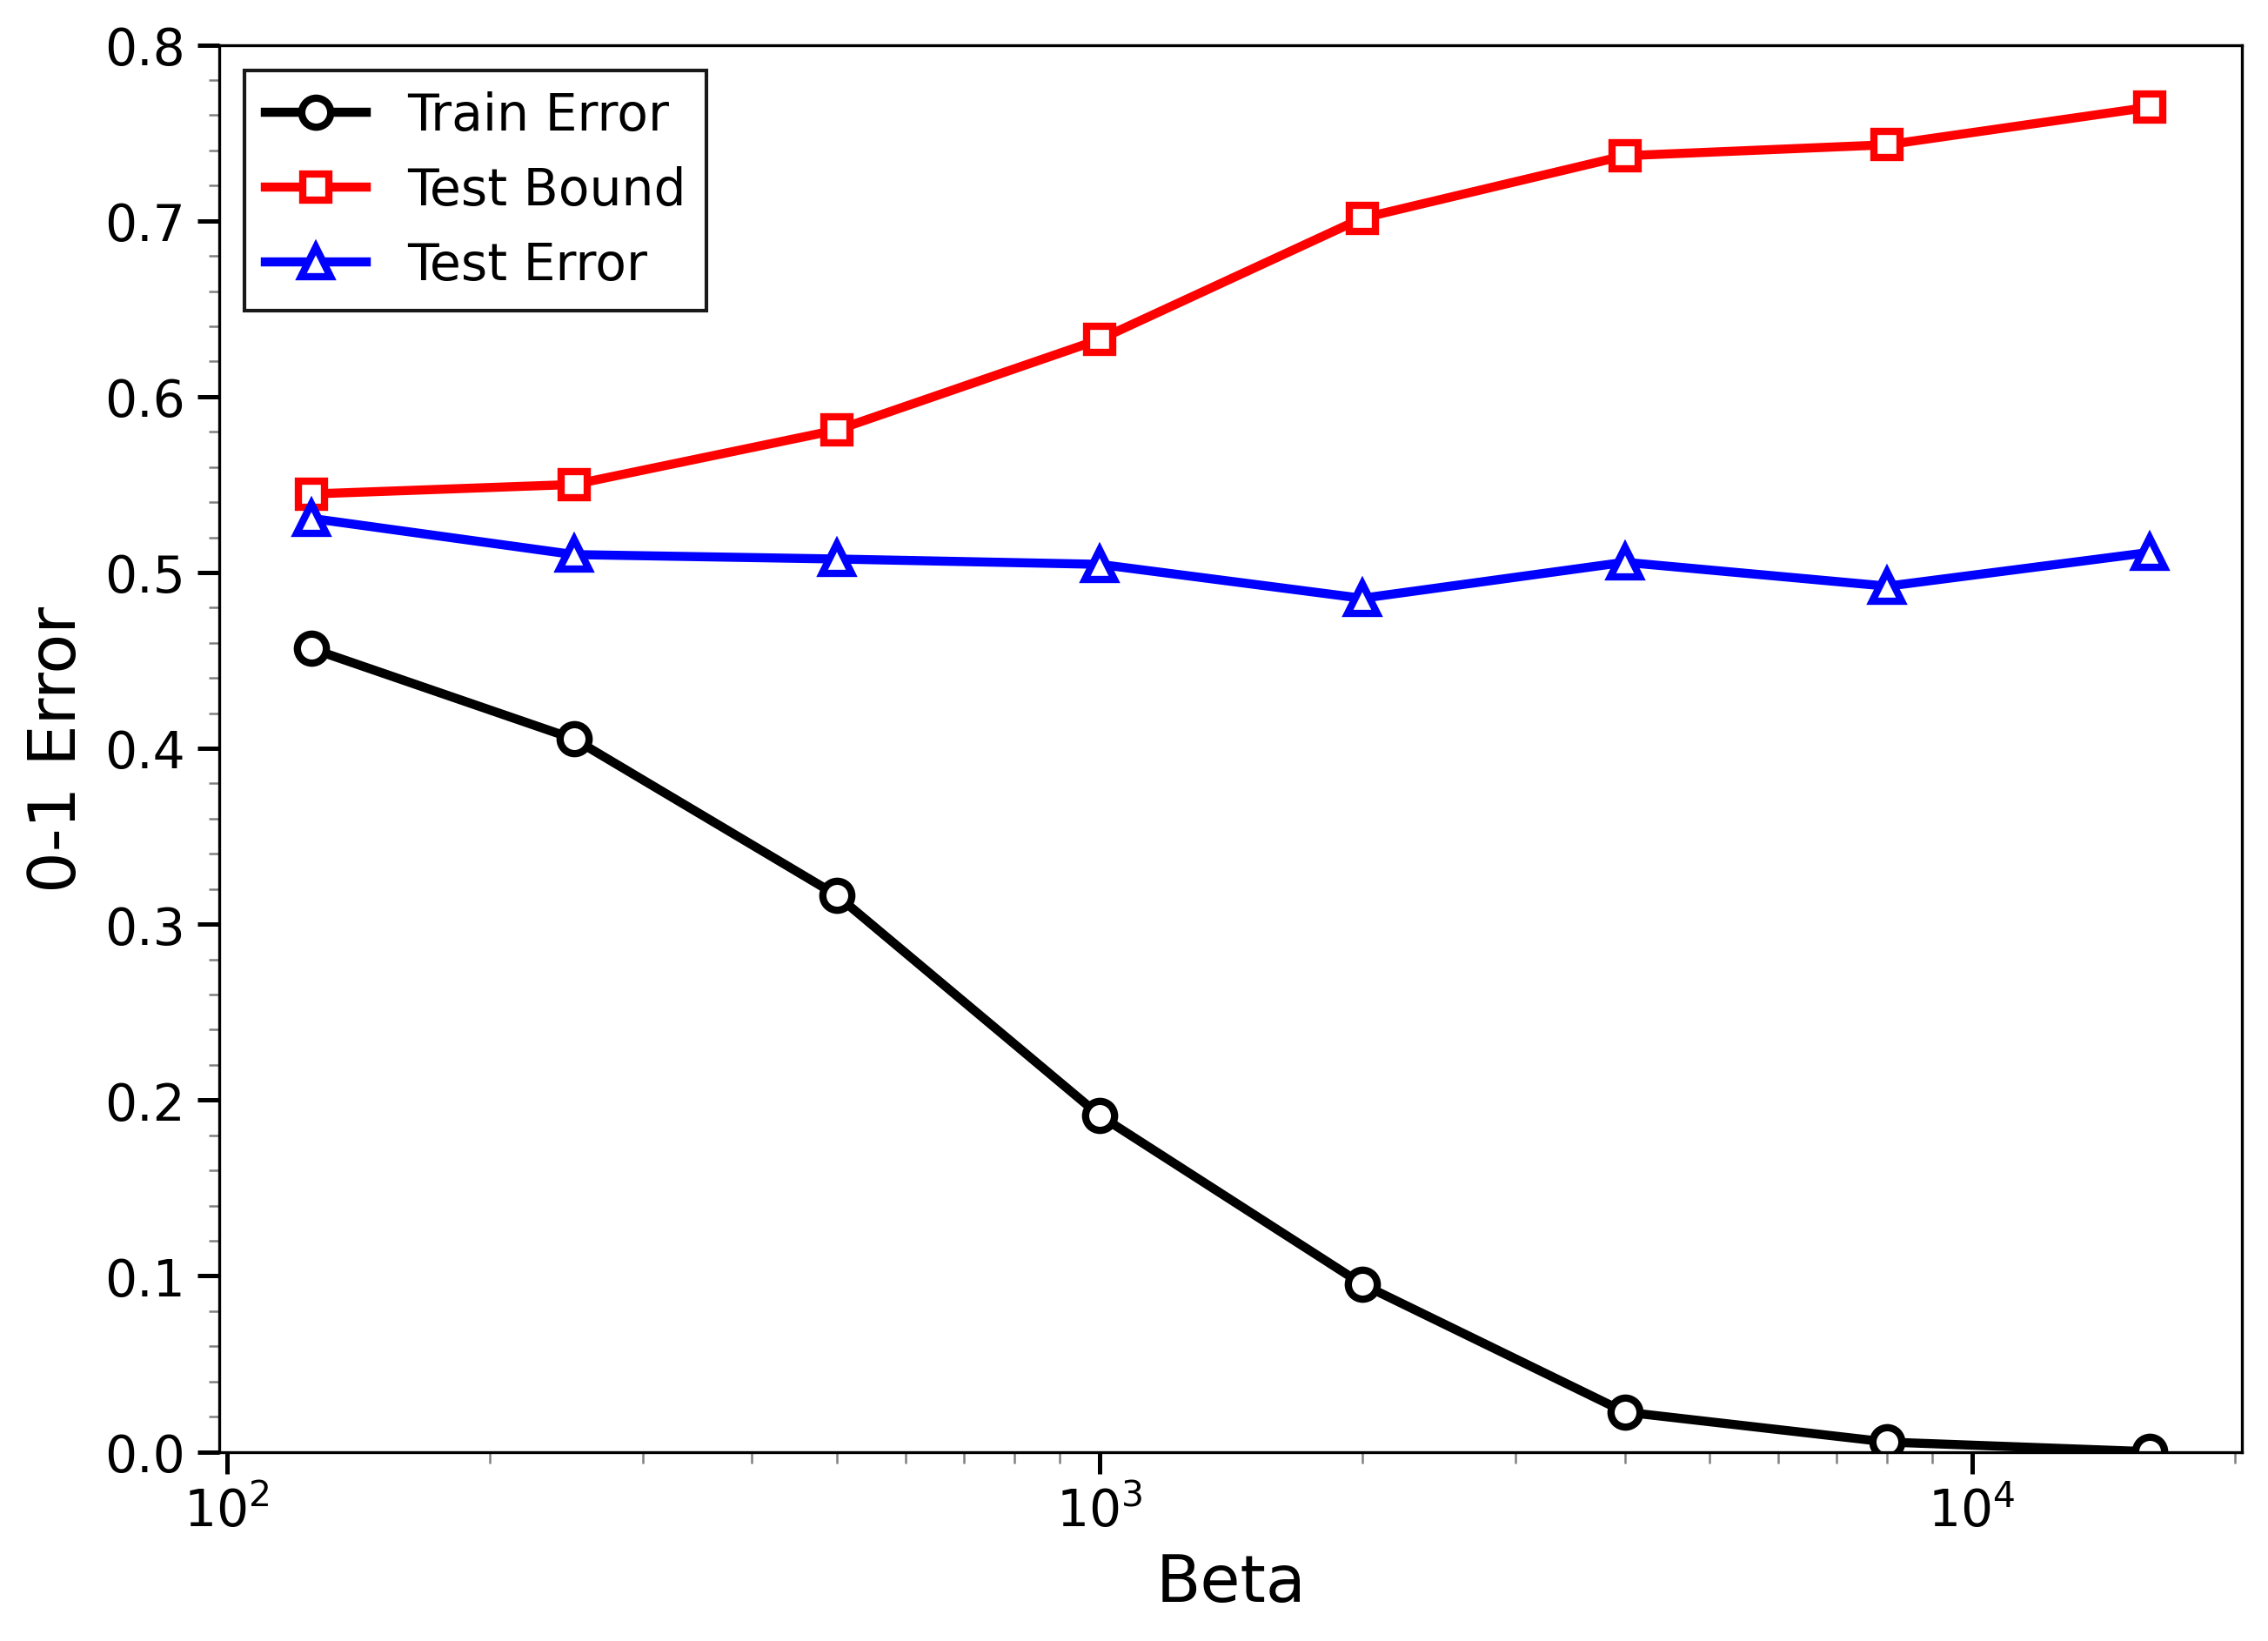
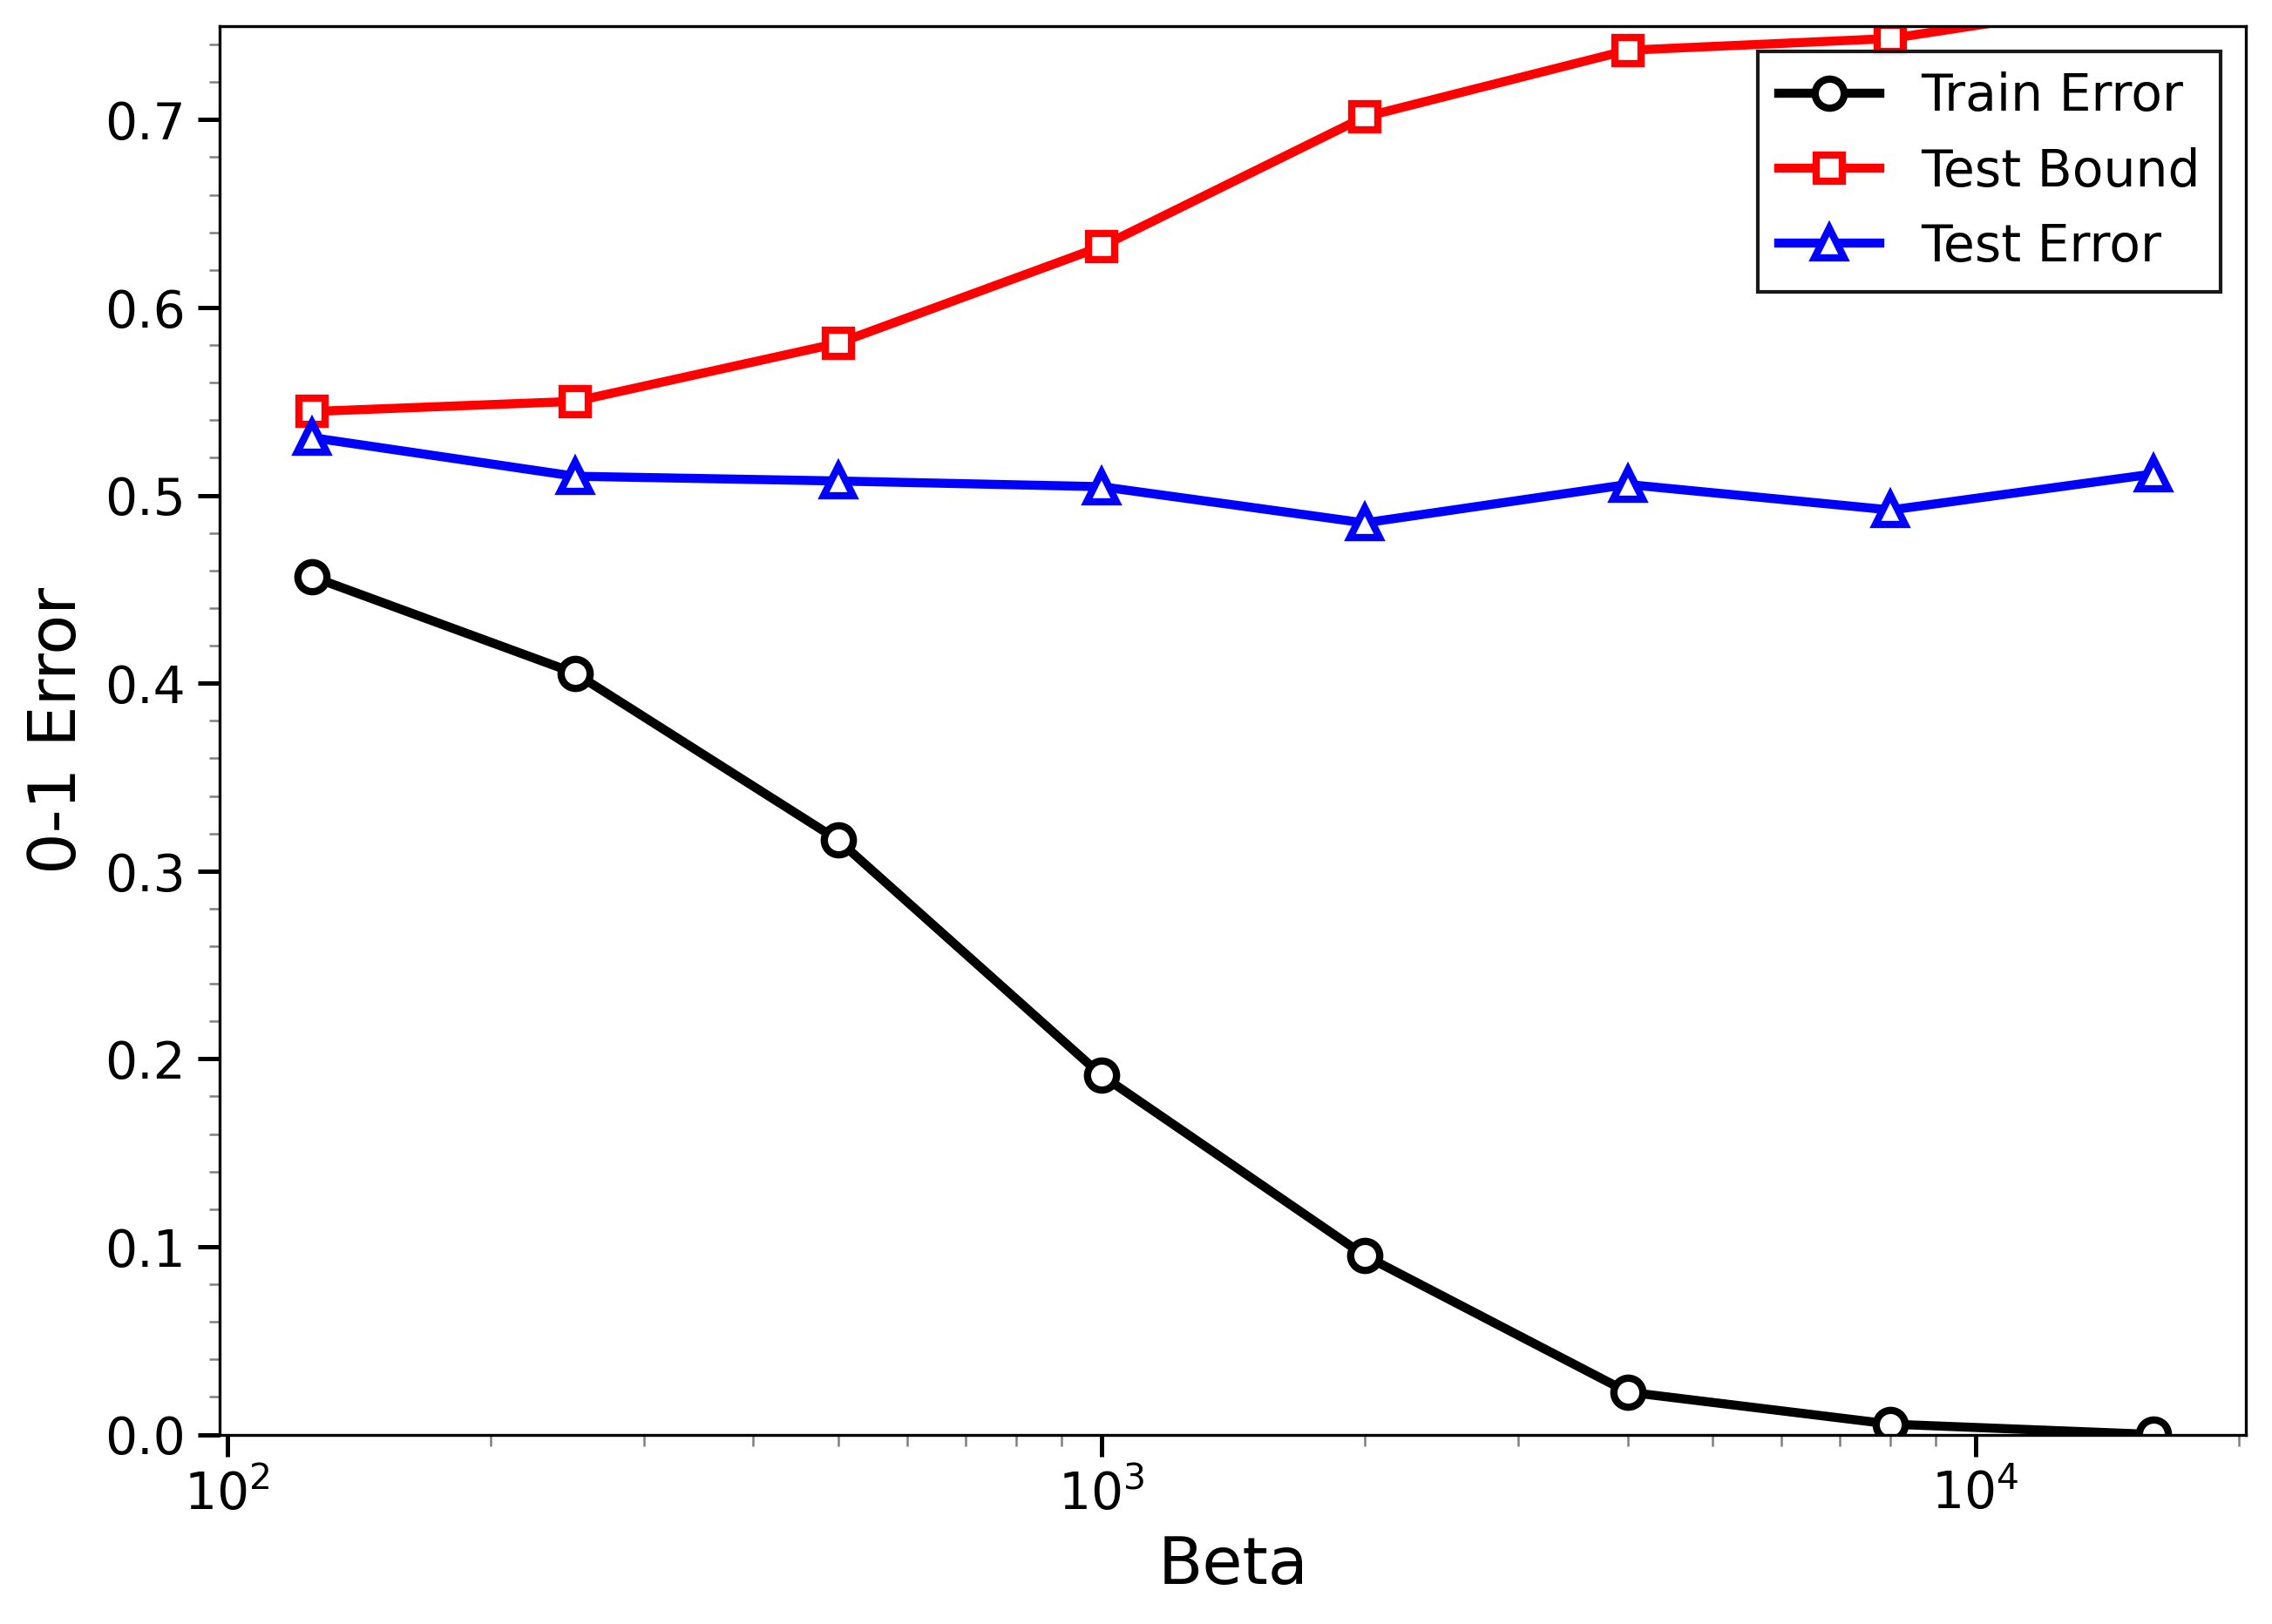
Refactor training and experiment orchestration for Gibbs generalization bound
- Updated .gitignore to exclude test files.
- Added new CSV files for various beta values and training results.
- Modified main.py to set TEST_MODE to False and USE_RANDOM_LABELS to True for full experiments.
- Adjusted beta values and learning rates in main.py for better training performance.
- Enhanced plot.py to improve visualization settings and added integral calculation.
- Updated training.py to refine SGLD model training, including adjustments to gradient norm calculations and prior sampling.
- Added new plots for visualizing results and removed obsolete loss plots.

diff --git a/training.py b/training.py
@@ -4,6 +4,7 @@ Training and experiment orchestration for the Gibbs generalization bound experim
 This module contains functions for training models with SGLD and running
 experiments across different beta values with multiple repetitions.
 """
+import math
 import torch
 import torch.optim as optim
 import time
@@ -207,8 +208,9 @@ def train_sgld_model(loss, model, train_loader, test_loader, min_steps,
     EMA_train_BCE_losses = [1.0]  # Separate EMA for approximating the ergodic average
     EMA_test_BCE_losses = [1.0]
     EMA_train_zero_one_losses = [1.0]
-    EMA_test_zero_one_losses = [1.0]
+    EMA_test_zero_one_losses = [1.0]    
     EMA_grad_norm = [0.0]  # EMA for gradient norm if needed
+    p_grad_norm = 8 # L-p norm for gradient norm tracking
     EMA_alpha_BCE = alpha_average
     
     print(f"Training with SGLD: a0={a0}, b={b}, sigma_gauss_prior={sigma_gauss_prior}, beta={beta}")
@@ -220,14 +222,21 @@ def train_sgld_model(loss, model, train_loader, test_loader, min_steps,
     epoch = 0
     # if beta == I have to sample from the prior many times and take the average both for train and test losses
     if beta == 0.0:
-        num_prior_samples = 5000
+        num_prior_samples = 1000
 
         model_cpu = model.to('cpu')
+
         for i in range(num_prior_samples):
             learning_rates.append(0.0)  # No learning rate for beta=0 prior sampling
             optimizer.zero_grad(set_to_none=True)
             # Reinitialize model weights from prior
             model_cpu = initialize_nn_weights_gaussian(model_cpu, sigma=sigma_gauss_prior, seed=42+i*1000)
+            # Use default initialization for prior sampling but with different seeds
+            # torch.manual_seed(42+i*1000)
+            # for layer in model_cpu.children():
+            #     if hasattr(layer, 'reset_parameters'):
+            #         layer.reset_parameters()
+            
             # Compute train loss
             # with torch.no_grad():
             train_loss_total = 0.0
@@ -240,10 +249,11 @@ def train_sgld_model(loss, model, train_loader, test_loader, min_steps,
             loss_fn.backward()
             if add_grad_norm:
                 grad_norm = torch.nn.utils.clip_grad_norm_(model_cpu.parameters(), float("inf"), norm_type=2).item()
-                EMA_grad_norm.append(EMA_alpha * grad_norm + (1 - EMA_alpha) * EMA_grad_norm[-1])
+                EMA_grad_norm.append(grad_norm ** p_grad_norm)
             zero_one_loss_total += zero_one_criterion(outputs, batch_y).item()
             train_zero_one_losses.append(zero_one_loss_total )
             train_losses.append(train_loss_total)
+            grad_dim = sum(p.grad.numel() for p in model_cpu.parameters() if p.grad is not None)
 
             # Compute test loss
             test_loss_total = 0.0
@@ -264,8 +274,8 @@ def train_sgld_model(loss, model, train_loader, test_loader, min_steps,
             epoch += 1
             print(f'Beta=0.0: Averaged over {num_prior_samples} prior samples - '
                 f'Train Loss: {train_losses[-1]:.4f}, Test Loss: {test_losses[-1]:.4f}, '
-                f'EMA grad norm: {EMA_grad_norm[-1]:.4f}, '
-                f'grad norm: {grad_norm:.4f}, '
+                # f'L-p grad norm: {(1/math.sqrt(grad_dim))*((sum(EMA_grad_norm)/epoch)**(1/p_grad_norm)):.6f}, '
+                # f'grad norm: {grad_norm:.4f}, '
                 f'EMA Train Loss: {EMA_train_BCE_losses[-1]:.4f}, EMA Test Loss: {EMA_test_BCE_losses[-1]:.4f}, '
                 f'EMA Train Zero-One Loss: {EMA_train_zero_one_losses[-1]:.4f}, EMA Test Zero-One Loss: {EMA_test_zero_one_losses[-1]:.4f}'
                 )
@@ -526,7 +536,7 @@ def run_beta_experiments(loss, beta_values, a0, b, sigma_gauss_prior, device,n_h
         list_EMA_test_BCE_losses.append(EMA_test_BCE_losses[-1])
         list_EMA_train_01_losses.append(EMA_train_01_losses[-1])
         list_EMA_test_01_losses.append(EMA_test_01_losses[-1])
-        list_EMA_grad_norm.append(EMA_grad_norm[-1])
+        list_EMA_grad_norm.append(EMA_grad_norm)
 
         print(f"  Final - Train BCE: {train_losses[-1]:.4f}, Test BCE: {test_losses[-1]:.4f}, "
                 f"Train 0-1: {train_01_losses[-1]:.4f}, Test 0-1: {test_01_losses[-1]:.4f}")
@@ -563,9 +573,10 @@ def run_beta_experiments(loss, beta_values, a0, b, sigma_gauss_prior, device,n_h
         filename_prefix += f"{len(train_loader.dataset)/1000:.0f}k"
         filename_prefix += f"LR{current_a0}".replace('.', '')
         filename_prefix += f"{loss.upper()}"
+        timestamp = datetime.now().strftime("%Y%m%d-%H%M%S")
+        filename_prefix += f"_{timestamp}"
         if test_mode:
-            timestamp = datetime.now().strftime("%Y%m%d-%H%M%S")
-            filename_prefix += f"_TEST_{timestamp}"
+            filename_prefix += f"_TEST"
         
         summary_string =  f"The LMC has been run with the following parameters:\n" \
         f"  - Device: {device}\n" \

diff --git a/main.py b/main.py
@@ -10,8 +10,8 @@ from dataset import (get_mnist_binary_dataloaders, get_mnist_binary_dataloaders_
 from training import run_beta_experiments
 
 # Configuration flags
-TEST_MODE = True  # Set to True for quick test, False for full experiment
-USE_RANDOM_LABELS = False  # Set to True for random labels, False for correct labels
+TEST_MODE = False  # Set to True for quick test, False for full experiment
+USE_RANDOM_LABELS = True  # Set to True for random labels, False for correct labels
 DATASET_TYPE = 'mnist'  # 'mnist' or 'cifar10'
 
 # MNIST classes for binary classification (only used when DATASET_TYPE='mnist')
@@ -37,8 +37,8 @@ def main():
         print("="*50)
 
         if DATASET_TYPE == 'mnist':
-            beta_values = [1000]  # Minimal set for testing
-            a0 = {0: 0.01, 1000: 0.01}
+            beta_values = []  # Minimal set for testing
+            a0 = {0: 0.01}
         
         elif DATASET_TYPE == 'cifar10':
             beta_values = [16000]  # Minimal set for testing
@@ -46,10 +46,14 @@ def main():
         
     else:
         if DATASET_TYPE == 'mnist':
-            beta_values = [125, 250, 500, 1000, 2000, 4000, 8000, 16000] # n = 2k 
+            beta_values = [125, 250, 500, 1000, 2000, 4000, 8000, 16000] # n = 2k
+            #beta_values = [1000, 2000, 3000, 4000, 5000, 6000, 7000, 8000, 9000, 10000, 11000, 12000, 13000, 14000, 15000, 16000]  # Extended MNIST experiment, n = 2k
+            # beta_values = [375, 750, 1250, 1500, 1750]
+            # a0 = {375: 0.01, 750:0.01, 1250:0.01, 1500:0.01, 1750:0.01}
+            a0 = {0: 0.04, 125: 0.04, 250: 0.04, 500: 0.04, 1000: 0.04, 2000: 0.04, 4000: 0.04, 8000: 0.04, 16000: 0.04}
+
             # beta_values = [500, 1000, 2000, 4000, 8000, 16000, 32000, 64000]  # Extended MNIST experiment, n = 8k
-            a0 = {0: 0.01, 125: 0.01, 250: 0.01, 500: 0.01, 1000: 0.01, 2000: 0.01, 4000: 0.01, 8000: 0.01, 16000: 0.01}
-            # a0 = {0: 0.005, 125: 0.005, 250: 0.005, 500: 0.005, 1000: 0.005, 2000: 0.005, 4000: 0.005, 8000: 0.005, 16000: 0.005}
+            #a0 = {0:0.01, 1000:0.01, 2000:0.01, 3000:0.01, 4000:0.01, 5000:0.01, 6000:0.01, 7000:0.01, 8000:0.01, 9000:0.01, 10000:0.01, 11000:0.01, 12000:0.01, 13000:0.01, 14000:0.01, 15000:0.01, 16000:0.01}
             # a0 = {0: 0.01,500:0.01, 1000: 0.01, 2000: 0.01, 4000: 0.01, 8000: 0.01, 16000: 0.01, 32000: 0.01, 64000: 0.01}
 
         elif DATASET_TYPE == 'cifar10':
@@ -109,7 +113,7 @@ def main():
     
     # Run the experiment with optimizations
     run_beta_experiments(
-        loss = 'SAVAGE', #'Savage', #'BBCE', #'BCE', #'Tangent'
+        loss = 'Savage', #'Savage', #'BBCE', #'BCE', #'Tangent'
         beta_values=beta_values,
         a0=a0,  # Now supports dict, callable, or float
         b=0.5,  # This is used only if you want to schedule the step size (In the current version it is not used)
@@ -128,7 +132,7 @@ def main():
         eta=0.1,  # This is used only if you want to schedule the step size (In the current version it is not used)
         eps=1e-7,
         test_mode=TEST_MODE,
-        add_grad_norm=True,
+        add_grad_norm=False,
         add_noise=True,  # If False, it becomes (S)GD
     )
     

diff --git a/plot.py b/plot.py
@@ -138,6 +138,14 @@ def minlist (l):
     return m
 
 # compute integral
+# def integral2 ( betas, train, factor ):
+# 	u, s, index = [0], 0, 0
+# 	while ( len (u) < len ( betas ) ):
+# 		s = s + factor*(betas[index+1]-betas[index])*train[index+1] +  factor*(betas[index+1]-betas[index])*abs(train[index] - train[index+1])/2
+# 		u.append(s)
+# 		index = index + 1
+# 	return u
+
 def integral ( betas, train, factor ):
 	u, s, index = [0], 0, 0
 	while ( len (u) < len ( betas ) ):
@@ -145,7 +153,6 @@ def integral ( betas, train, factor ):
 		u.append(s)
 		index = index + 1
 	return u
- 
 
 def gammas ( betas, train, factor ):
 	int = integral ( betas, train, factor ) 
@@ -228,7 +235,7 @@ singledraw = 0     # 0 = posterior average, 1 = single draw
 # ( LR# ) learning rate where 001 = 0.01 etc
 # ( loss fctn ) BBCE, Savage
 
-truefilename, randomfilename = "MCL1W500ULA2kLR001SAVAGE.csv", "MRL1W500ULA2kLR001SAVAGE.csv"
+truefilename, randomfilename = "MCL1W500ULA2kLR001BBCE.csv", "MRL1W500ULA2kLR001BBCE.csv"
 
 # for calibration load random data first
 betas, bcetrain, bcetest, train01, test01, av_bcetrain, av_bcetest,\
@@ -247,7 +254,7 @@ print (betas)
 if calibration == 1:
     factor = calibrate (betas, av_bcetrain, av_train01, samplesize, thresh=0.50)
 else:
-    factor = 1 #4 + math.log(1-math.exp(-4)) #In the old files using BBCE loss, we normalized the loss values so we need this factor
+    factor = 1#4 + math.log(1-math.exp(-4)) #In the old files using BBCE loss, we normalized the loss values so we need this factor
 
 if trueLabels == 1:   # then reload 
     betas, bcetrain, bcetest, train01, test01, av_bcetrain, av_bcetest,\
@@ -313,7 +320,7 @@ def showbce (showkls):
     # Enhanced formatting
     ax.set_xlabel('Beta', fontsize=18)
     ax.set_ylabel('Loss', fontsize=18)
-    ax.set_ylim(0, 0.6)
+    ax.set_ylim(0, 2)
     
     # Better legend
     ax.legend(frameon=True, fancybox=False, shadow=False, loc='best', 
@@ -403,7 +410,7 @@ def show01 (showkls):
     # Enhanced formatting
     ax.set_xlabel('Beta', fontsize=18)
     ax.set_ylabel('0-1 Error', fontsize=18)
-    ax.set_ylim([0, 0.8])
+    ax.set_ylim([0, 0.75])
     
     # Better legend
     ax.legend(frameon=True, fancybox=False, shadow=False, loc='best', 